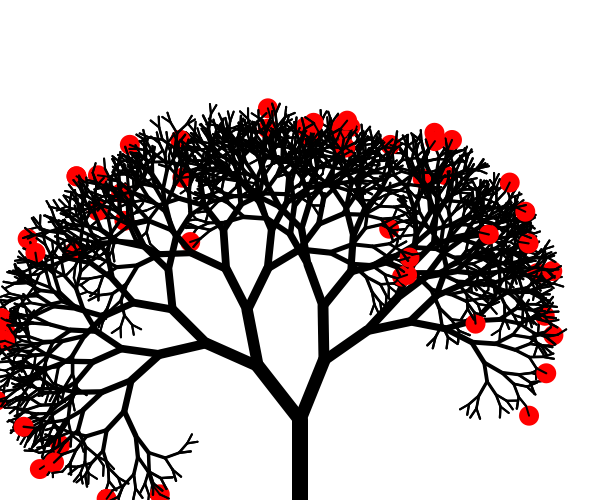
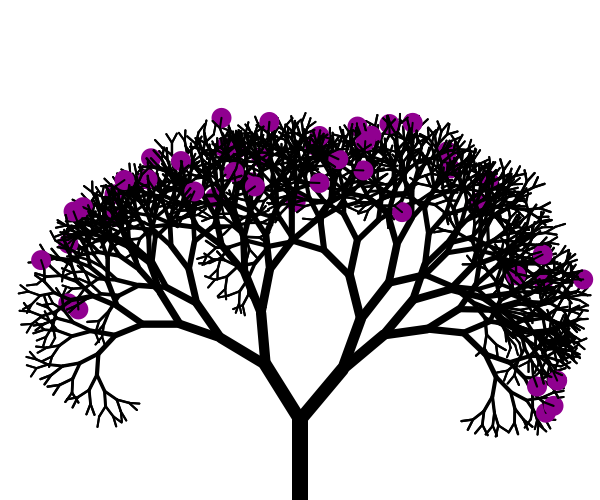
arvores

Changed region(s): [[0.0, 0.18, 0.99, 1.0]]

diff --git a/ed/fractais_png/src/go/main.go b/ed/fractais_png/src/go/main.go
@@ -12,7 +12,7 @@ func ri(inf, sup int) float64 {
 func arvere(pen *Pen, dist float64) {
 	if dist < 10 {
 		if ri(0, 50) == 0 {
-			pen.SetRGB(255, 0, 0)
+			pen.SetRGB(400, 0, 400)
 			pen.FillCircle(10)
 		}
 		return
